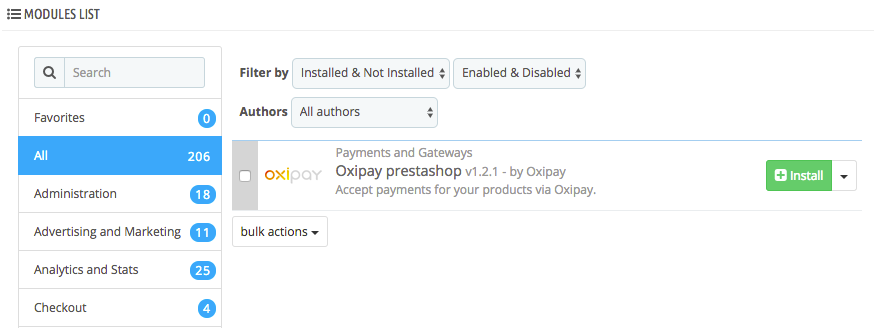
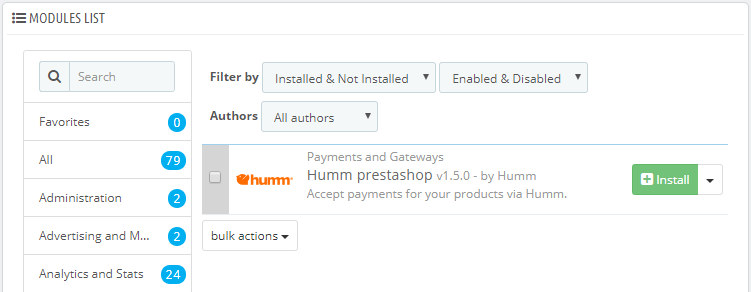
update prestashop section

diff --git a/docs/platforms/prestashop.md b/docs/platforms/prestashop.md
@@ -1,29 +1,21 @@
-<h1>Setting up on PrestaShop</h1>
+#Setting up on PrestaShop
 
 This document outlines the steps needed to install Humm on your PrestaShop store.
 
 ## Plugin Installation
+<div id="installing-humm">
+  The plugin can be installed via PrestaShop's admin panel. This section details how to upload and install the plugin, and configure its various parameters for it to work properly.
+</div>
 
 <div class="panel">
   You will need your <b>Merchant ID</b> and an <b>Encryption Key (API Key)</b> handy before continuing with the installation. 
 </div>
 
-The plugin can be installed automatically via PrestaShop's admin panel. This section details how to upload and install the plugin, and configure its various parameters for it to work properly.
-
-<div class="panel">
-  Installation of the plugin requires you to be able to access the store's admin area. If you have trouble accessing your PrestaShop's admin area.
-</div>
-
-<div id="installing-oxipay"></div>
-### Installation Procedure
-
 **1** - Click the following URL corresponding to your PrestaShop version to download the plugin.
 
 For PrestaShop 1.6:
-[https://github.com/oxipay/oxipay-prestashop/releases/download/1.3.1/oxipay_prestashop_v1.3.1.zip](https://github.com/oxipay/oxipay-prestashop/releases/download/1.3.1/oxipay_prestashop_v1.3.1.zip)
-
-For PrestaShop 1.7:
-[https://github.com/oxipay/oxipay-prestashop/releases/download/1.3.2/oxipay_prestashop_v1.3.2.zip](https://github.com/oxipay/oxipay-prestashop/releases/download/1.3.2/oxipay_prestashop_v1.3.2.zip)
+[https://github.com/shophumm/humm-prestashop/releases/download/1.5.0/hummprestashop.zip](https://github.com/shophumm/humm-prestashop/releases/download/1.5.0/hummprestashop.zip)  
+For PrestaShop 1.7: coming soon.
 
 **2** - Log into your PrestaShop's admin area.
 
@@ -62,29 +54,26 @@ For PrestaShop 1.7:
 
 Immediately after installing the Humm plugin, you would be automatically re-directed to the plugin settings page. Otherwise, you can bring up this page by going to the Modules and Services page, finding the Humm listing, and clicking the **Configure** button next to it.
 
-1 - **Title**: This configures the plugin title that gets displayed to the end user during checkout. By default it is configured to **Humm**. 
+![8.png](/img/platforms/prestashop/8.png)
 
-2 - **Logo**: This controls the Humm Logo that gets displayed.
+1 - **Checkout Method**: This Switch between the two checkout methods (Humm and Oxipay).
 
-3 - **Description**: This configures the plugin description text that gets displayed to the end user as part of the checkout process. By default, it is configured to **Breathe easy with Humm, an interest-free instalment payment plan**.
+2 - **Country**: The country your store operates in (Australia or New Zealand).
 
-4 - **Humm Gateway URL**: This specifies the Humm gateway that the plugin would need to communicate with for it to be able to process payments via Humm.
+3 - **Is Test?**: When set to 'Yes', the plugin will be set to do test transactions. Please set this to 'No' when you have done testing and are ready for real transactions.
 
-| Humm Environment | URL  |
-|--------------------|------|
-| Production Gateway | https://secure.%domain%/Checkout?platform=Default |
-| Sandbox Gateway    | https://securesandbox.%domain%/Checkout?platform=Default |
+4 - **Gateway URL**: This specifies the Humm gateway that the plugin would communicate with for processing the payment. Leave this to empty when you are not sure, and the plugin will derive the correct URL based on your other settings.
 
 5 - **Merchant ID**: This is the Humm Merchant ID that you are provided with as part of your on-boarding when signing-up for Humm.
 
-6 - **API Key**: The API Key or the Encryption key is a case-sensitive alpha-numeric sequence that is used to authenticate payment requests originating from your store. It is vital that you protect it and don't provide it to unauthorised individuals.
+6 - **API Key**: The API Key is a case-sensitive alpha-numeric sequence that is used to authenticate payment requests. It is vital that you protect it and don't provide it to unauthorised individuals. 
 <div class="panel">
   The Humm Platform Integration Team will provide you with your API key.
 </div>
 
-Once you have finished making the necessary configuration changes or updates, click the **Save** button on the bottom left.
+Once you have finished making the necessary configuration changes, click the **Save** button on the bottom left.
 
-##Upgrading Humm
+## Plugin Update
 
 You can upgrade your Humm PrestaShop plugin by uninstalling the old one and installing the newer version. 
 
@@ -100,4 +89,4 @@ To uninstall the Humm plugin you need to:
 
 ![16.png](/img/platforms/prestashop/16.png)
 
-4 - You can now download the newer version of the Humm PrestaShop plugin and install it as per the instructions in the [Installing Humm](#installing-oxipay) section of this document.
+4 - You can now download the newer version of the Humm PrestaShop plugin and install it as per the instructions in the [Installing Humm](#installing-humm) section of this document.
